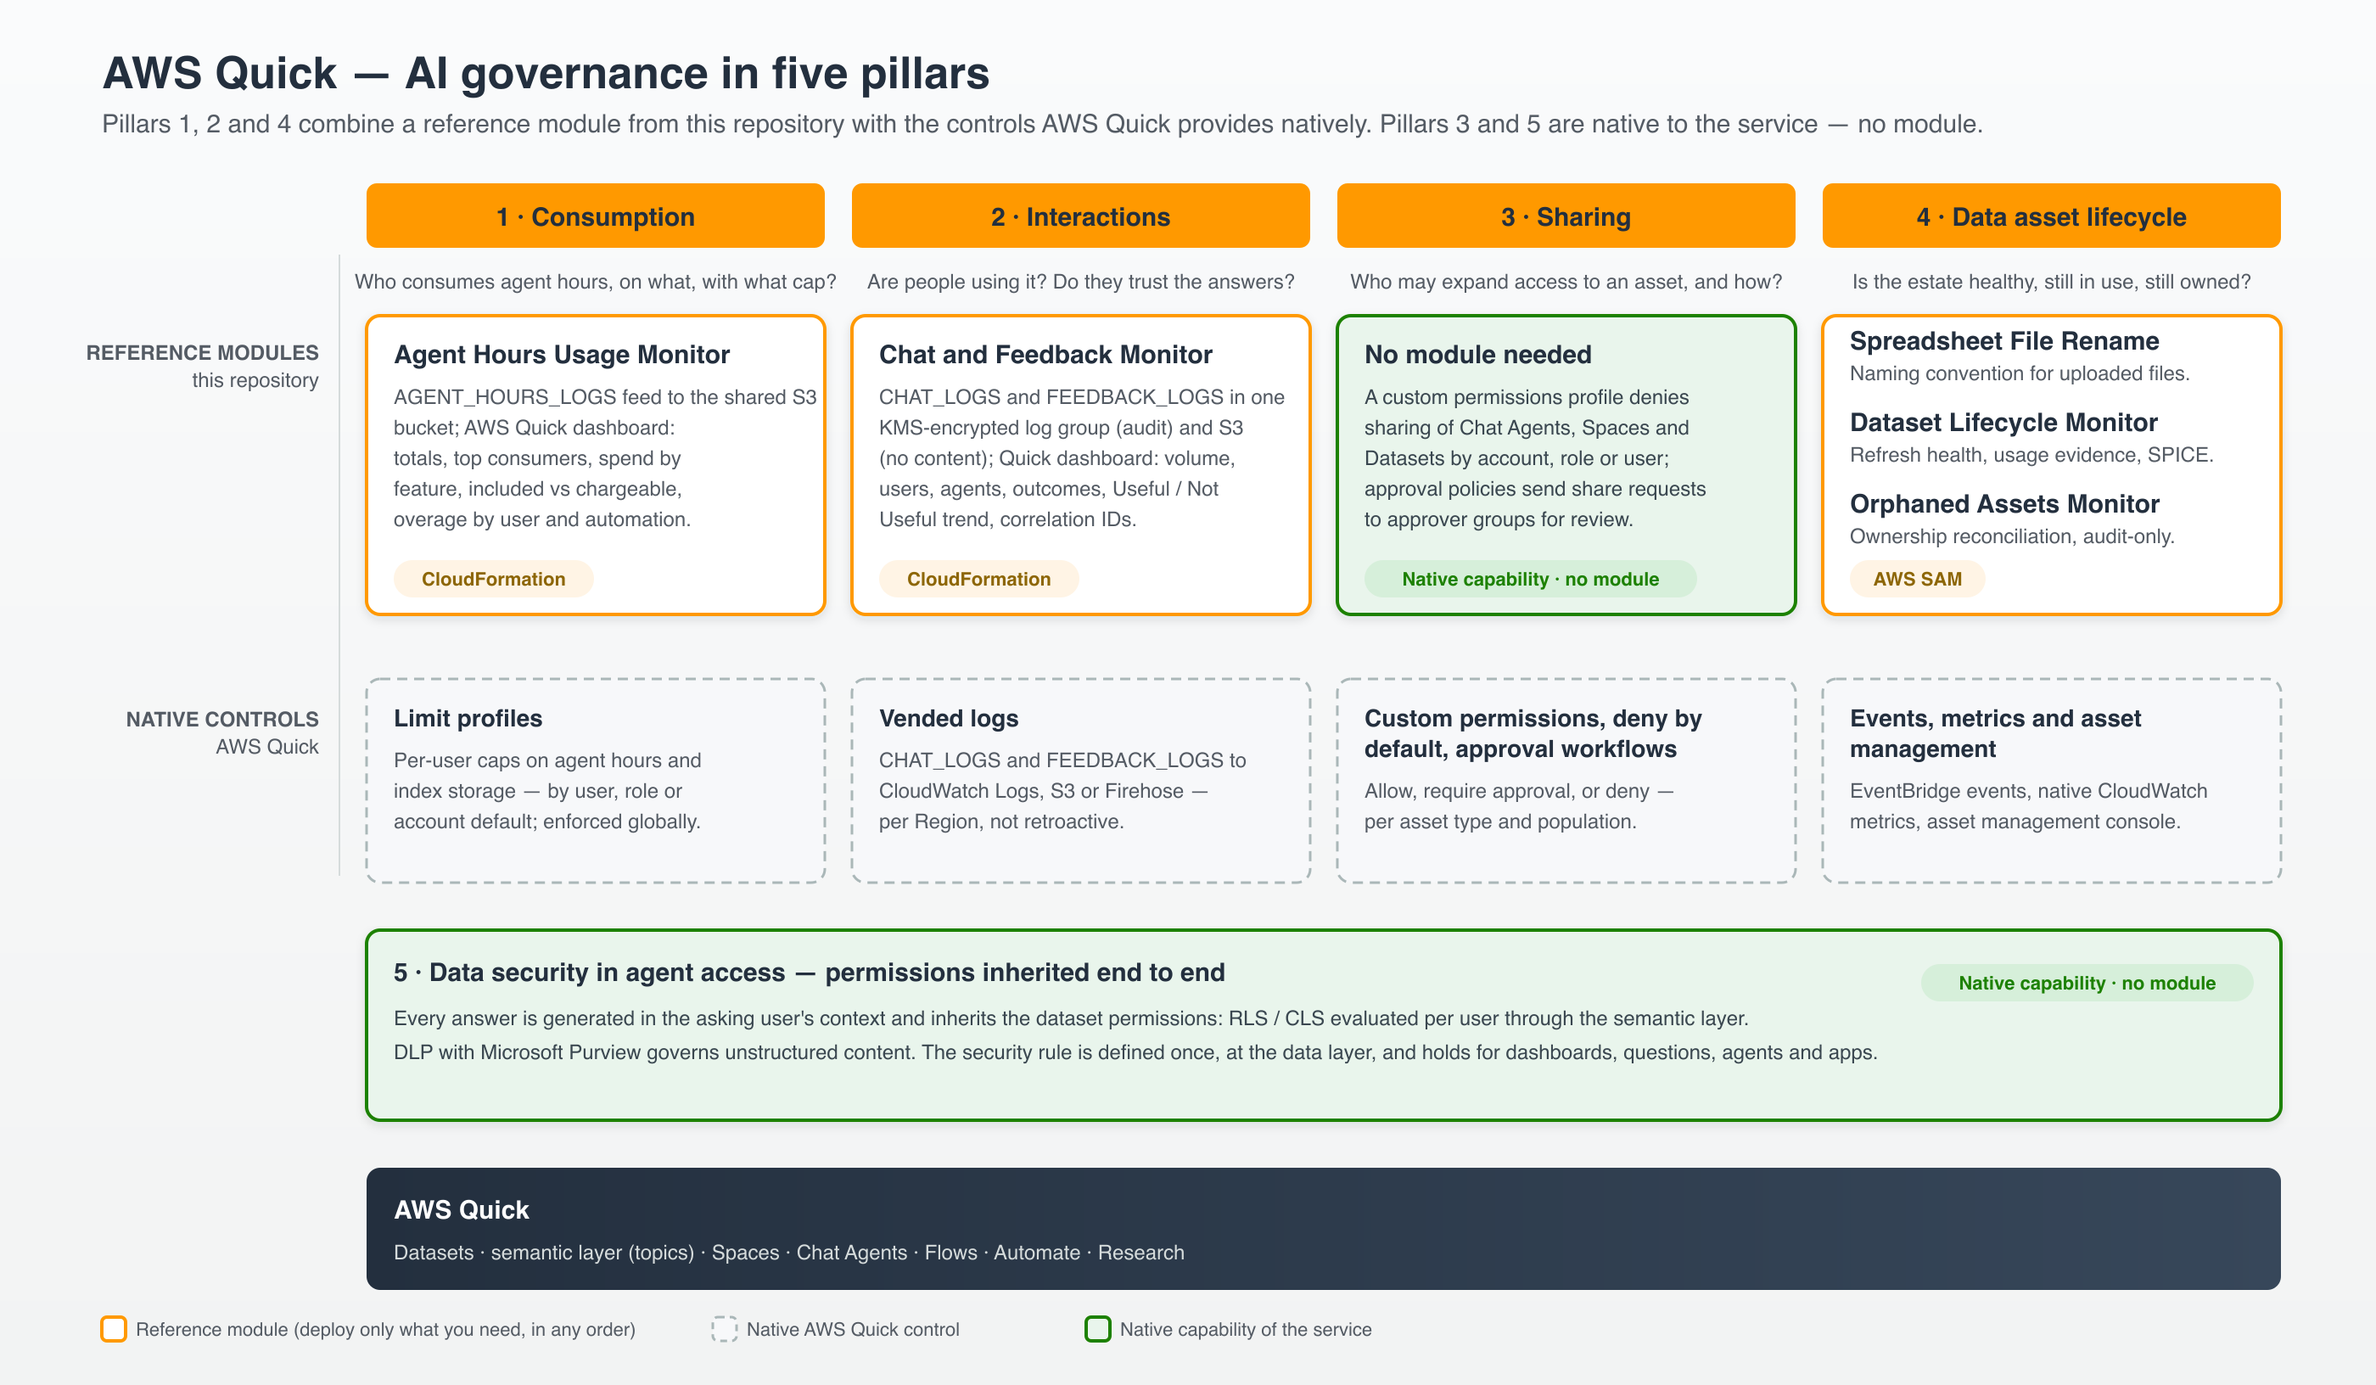
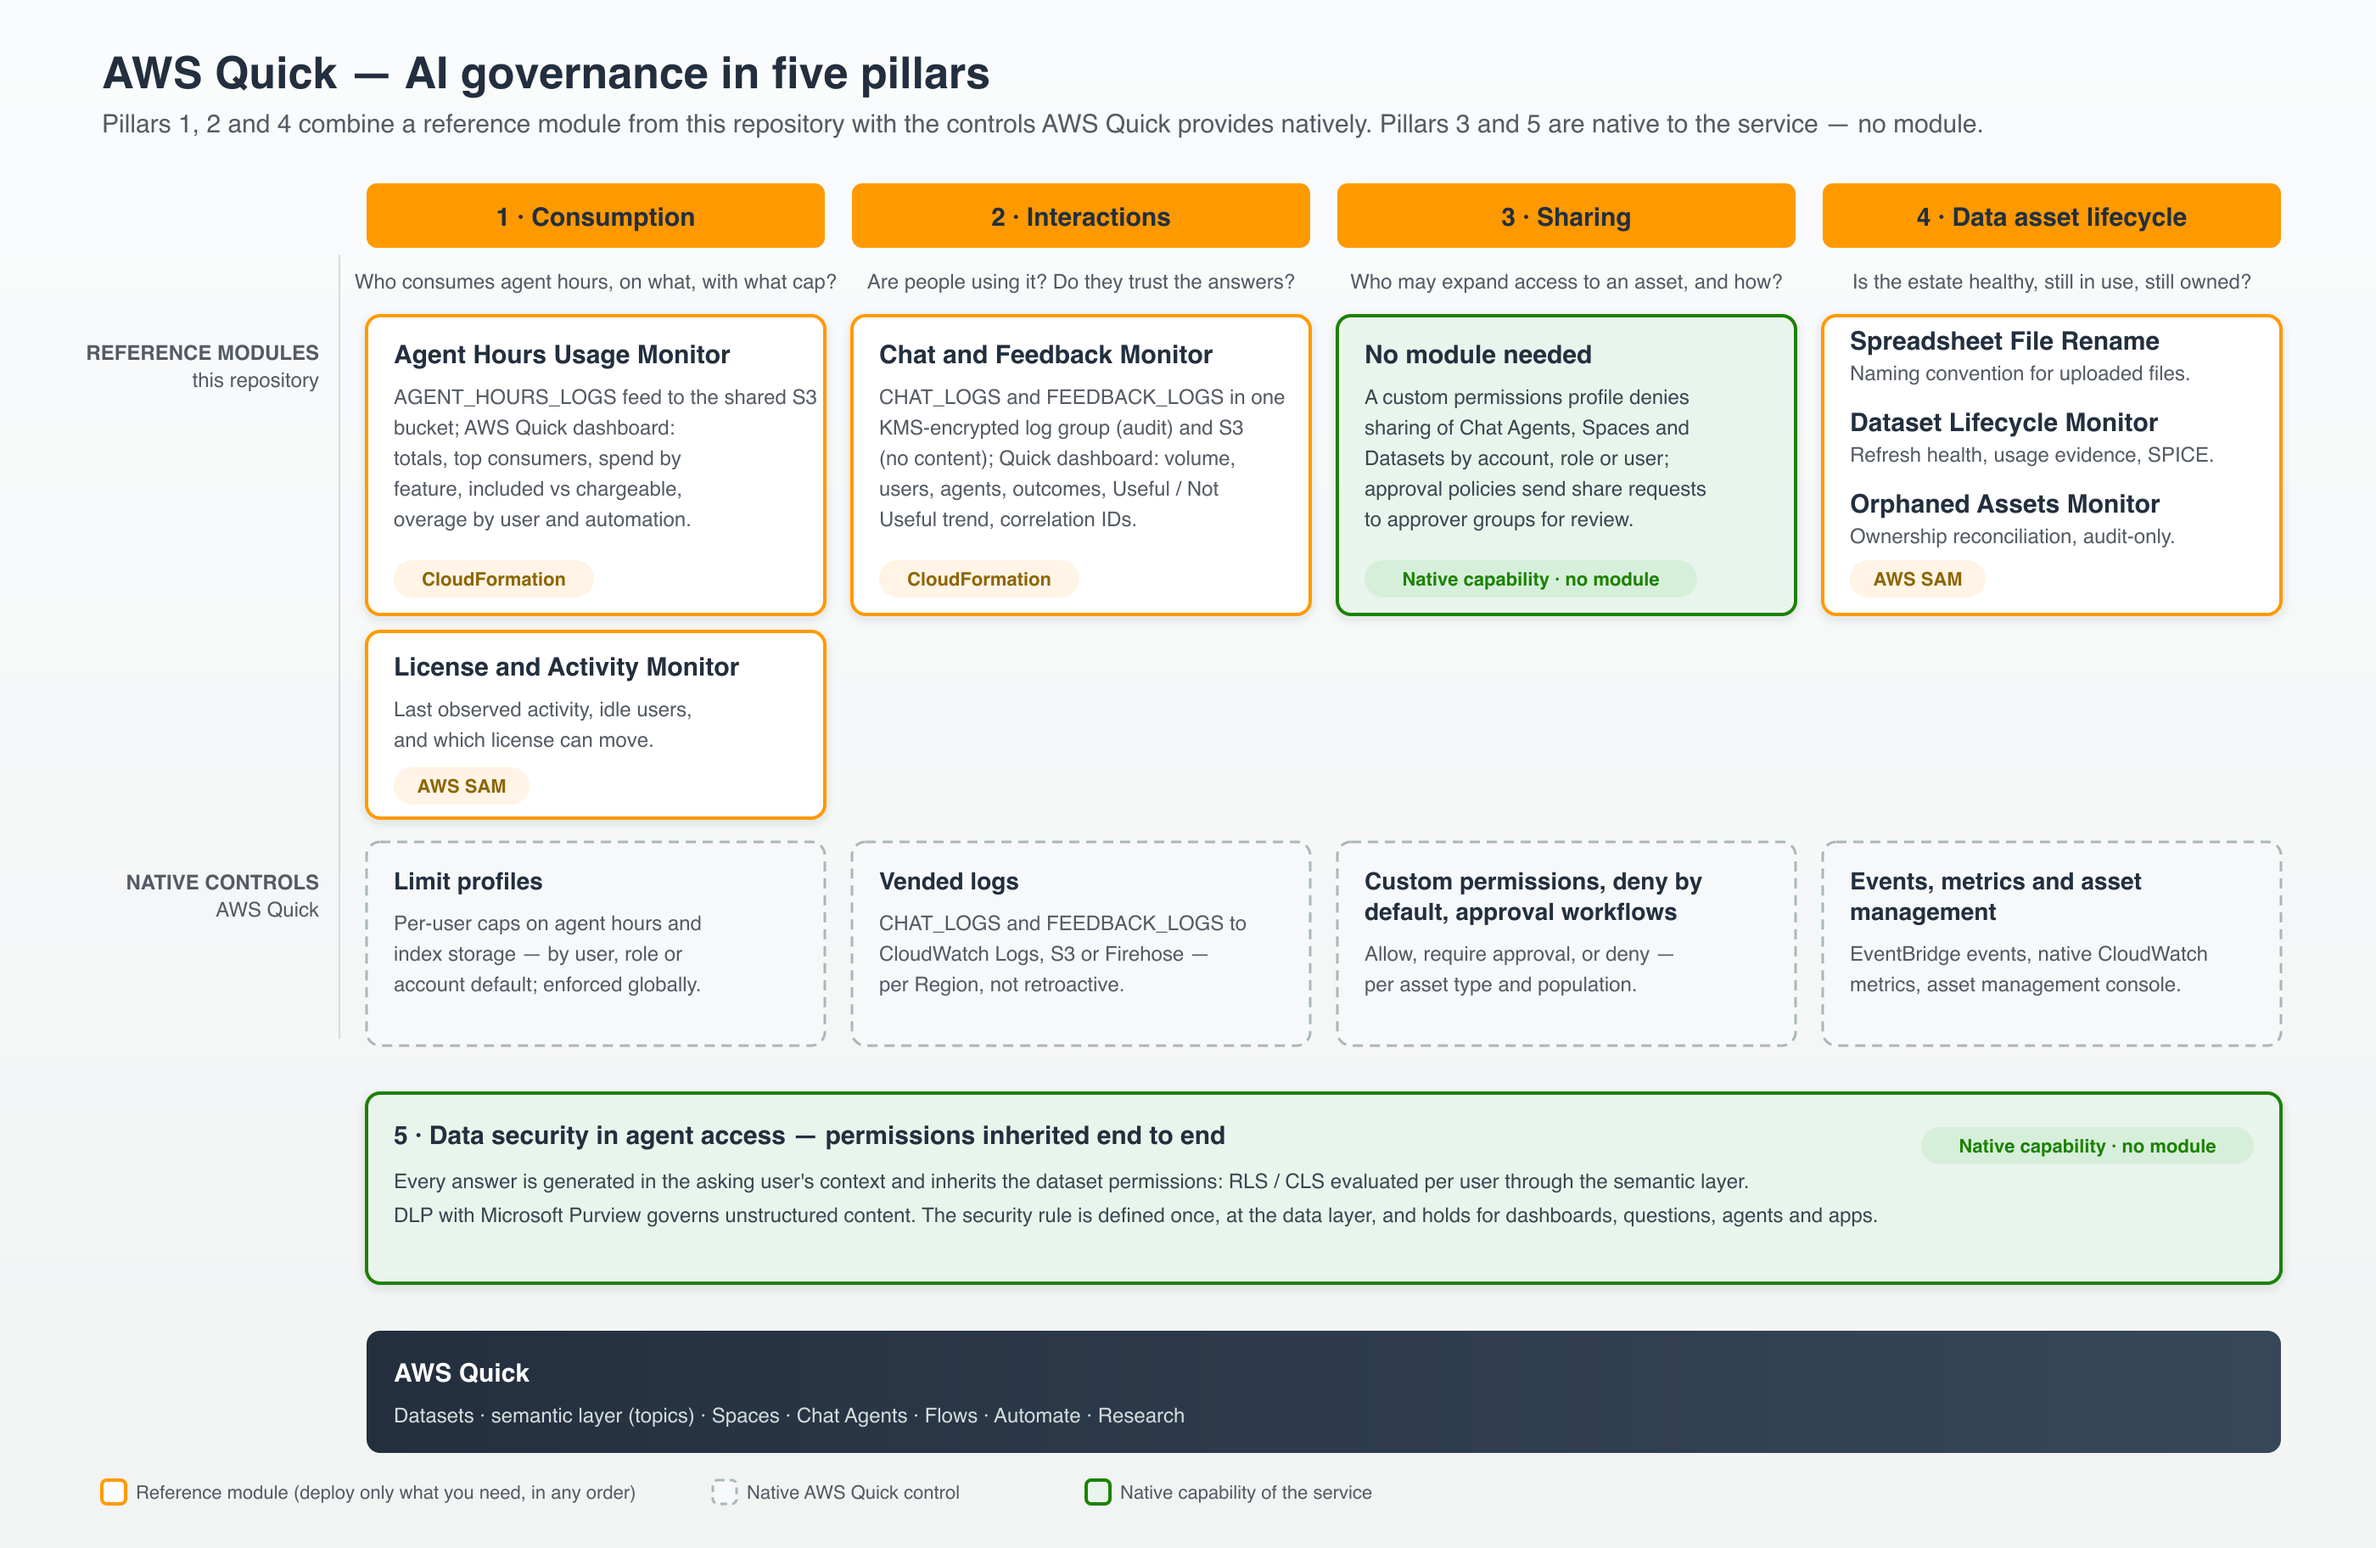
docs: list the license monitor in the catalog
Pillar 1 now points at the license monitor as well as Agent Hours. The five-pillars diagram matches.

Changed region(s): [[0.0311, 0.0312, 0.9632, 0.9688]]

diff --git a/README.md b/README.md
@@ -22,7 +22,7 @@ This repository organizes that agenda into five pillars. Pillars 1, 2 and 4 comb
 
 | Pillar | Question it answers | Native AWS Quick capability | Reference module in this repository |
 |---|---|---|---|
-| 1 · Consumption | Who consumes agent hours, on which feature, and with what cap? | [Limit profiles](https://docs.aws.amazon.com/quick/latest/userguide/limit-profiles.html) (per-user caps on agent hours and index storage) | [Agent Hours Usage Monitor](./governance-agent-hours-monitor/README.md) |
+| 1 · Consumption | Who consumes agent hours, on which feature, and with what cap, and does each license match its use? | [Limit profiles](https://docs.aws.amazon.com/quick/latest/userguide/limit-profiles.html) (per-user caps on agent hours and index storage) | [Agent Hours Usage Monitor](./governance-agent-hours-monitor/README.md), [License and Activity Monitor](./governance-license-activity-monitor/README.md) |
 | 2 · Interactions | Are people using it? Do they trust the answers? What is failing? | [`CHAT_LOGS` and `FEEDBACK_LOGS` vended logs](https://docs.aws.amazon.com/quick/latest/userguide/monitoring-cloudwatch-logs.html) | [Chat and Feedback Monitor](./governance-chat-feedback-monitor/README.md) |
 | 3 · Sharing | Who may expand access to an asset, and how? | [Custom permissions](https://docs.aws.amazon.com/quick/latest/userguide/custom-permissions.html) (sharing restrictions per asset type, [deny by default](https://docs.aws.amazon.com/quick/latest/userguide/custom-permissions-governance.html)) and [approval workflows](https://docs.aws.amazon.com/quick/latest/userguide/approval-workflows.html) | — (native capability) |
 | 4 · Data asset lifecycle | Is the asset estate healthy, still in use, and still owned? | [EventBridge events](https://docs.aws.amazon.com/quick/latest/userguide/events-integration.html), native CloudWatch metrics, and the [asset management console](https://docs.aws.amazon.com/quick/latest/userguide/manage-qs-assets.html) | [Spreadsheet File Rename](./governance-spreadsheet-file-rename/README.md) · [Dataset Lifecycle Monitor](./governance-dataset-lifecycle-monitor/README.md) · [Orphaned Assets Monitor](./governance-orphaned-assets-monitor/README.md) |
@@ -37,21 +37,22 @@ This repository organizes that agenda into five pillars. Pillars 1, 2 and 4 comb
 | Module | Pillar | What it does | Deploy with | Needs the foundation |
 |---|---|---|---|---|
 | [Agent Hours Usage Monitor](./governance-agent-hours-monitor/README.md) | 1 | Delivers the `AGENT_HOURS_LOGS` feed to the shared analytics bucket and ships an AWS Quick dashboard: total hours, top consumers, spend by feature, license-covered vs. chargeable, and overage by feature, user, and automation. | CloudFormation | yes |
+| [License and Activity Monitor](./governance-license-activity-monitor/README.md) | 1 | Each user's last observed activity, oldest first, and whether the user can be reviewed for removal. The license table shows who can move to another tier, the list-price saving, and the month it starts. | AWS SAM | yes |
 | [Chat and Feedback Monitor](./governance-chat-feedback-monitor/README.md) | 2 | Delivers `CHAT_LOGS` and `FEEDBACK_LOGS` to one KMS-encrypted log group (the content audit trail) and a field-minimized copy to the shared analytics bucket, and ships an AWS Quick dashboard: message and conversation volume, active users in the period and the most active ones, most-used agents (friendly names refreshed on every agent rename), response outcomes, Useful / Not Useful trend with reasons, and an audit trail with correlation IDs. | CloudFormation | yes |
 | [Spreadsheet File Rename](./governance-spreadsheet-file-rename/README.md) | 4 | Renames any dataset created from an uploaded spreadsheet with a standard prefix (`xls-` by default) within seconds, via an EventBridge → Lambda automation, with no change to the upload experience. | AWS SAM | no |
 | [Dataset Lifecycle Monitor](./governance-dataset-lifecycle-monitor/README.md) | 4 | Fleet-wide dataset and dashboard lifecycle without co-owning assets: last sync status, refresh schedules and the next run, last observed use and idle state with the evidence behind it, and which dashboards qualify for review. Snapshots in the shared analytics bucket and an AWS Quick dashboard. | AWS SAM | yes |
 | [Orphaned Assets Monitor](./governance-orphaned-assets-monitor/README.md) | 4 | Daily read-only reconciliation of every asset's owner grants (datasets, dashboards, analyses, data sources, folders, spaces, agents, topics) against the Quick user/group inventory: flags orphaned and missing-owner assets (HIGH), single-owner assets (bus factor 1), and recoveries, with SNS alerts. Audit-only — ownership transfer stays a human decision. Snapshots in the shared analytics bucket and an AWS Quick dashboard. | AWS SAM | yes |
 | [Analytics Foundation](./governance-analytics-foundation/README.md) | shared | Once-per-Region prerequisites for the AWS Quick dashboards: the shared analytics bucket every module writes into (one prefix per module), a Glue database, an Athena workgroup, the Quick data source, and the IAM grant that lets Quick read the data — no console step. | CloudFormation | is the foundation |
 
-The four monitoring modules visualize in AWS Quick: each ships a Quick dashboard that its `apply` script deploys together with the module, over data in one shared analytics bucket. Alerting, in the modules that raise it, stays operational — CloudWatch alarms and SNS — and the conversation audit trail stays in CloudWatch Logs. See [Deployment options](#deployment-options).
+The five monitoring modules visualize in AWS Quick: each ships a Quick dashboard that its `apply` script deploys together with the module, over data in one shared analytics bucket. Alerting, in the modules that raise it, stays operational — CloudWatch alarms and SNS — and the conversation audit trail stays in CloudWatch Logs. See [Deployment options](#deployment-options).
 
 ## Pillar 1 — Visibility and control of consumption
 
-AI features in AWS Quick — Quick Research, Flows, Automate, the desktop assistant, custom apps, and artifact generation — consume **agent hours**, the metered unit of the subscription. With the desktop and mobile apps generally available and agents that keep running in the cloud after the laptop is closed, part of that consumption happens with nobody watching: a scheduled task debits hours on every run. The pricing model has three components every adoption budget must cover: the per-user subscription, the per-account infrastructure fee of the enterprise subscriptions, and variable consumption beyond the monthly allowance included per user. The two enterprise subscriptions differ by design here: in **Professional** the agent-hour allowance is a hard cap — there is no overage; in **Enterprise** usage beyond the allowance is billed per second at a single rate. Index storage beyond the pooled allocation is billed per GB. See [AWS Quick pricing](https://aws.amazon.com/quick/pricing/) for current values and conditions. Anyone accountable for the budget needs three answers: who is consuming, on which feature, and how much of it is chargeable overage?
+AI features in AWS Quick — Quick Research, Flows, Automate, the desktop assistant, custom apps, and artifact generation — consume **agent hours**, the metered unit of the subscription. With the desktop and mobile apps generally available and agents that keep running in the cloud after the laptop is closed, part of that consumption happens with nobody watching: a scheduled task debits hours on every run. The pricing model has three components every adoption budget must cover: the per-user subscription, the per-account infrastructure fee of the enterprise subscriptions, and variable consumption beyond the monthly allowance included per user. The two enterprise subscriptions differ by design here: in **Professional** the agent-hour allowance is a hard cap — there is no overage; in **Enterprise** usage beyond the allowance is billed per second at a single rate. Index storage beyond the pooled allocation is billed per GB. See [AWS Quick pricing](https://aws.amazon.com/quick/pricing/) for current values and conditions. Anyone accountable for the budget needs three answers: who is consuming, on which feature, and how much of it is chargeable overage, and does each license match its use?
 
 **Native control.** The built-in usage analytics aggregate consumption by subscription tier, which is enough to track the whole but not to hold teams and users accountable. For enforcement, [limit profiles](https://docs.aws.amazon.com/quick/latest/userguide/limit-profiles.html) let an administrator define reusable per-user caps on agent hours per billing cycle and on index storage, assigned to individual users, to a role (Author or Reader), or as the account default — the most specific assignment wins. When a user reaches 100% of a cap, new agent invocations (or new uploads and knowledge base ingestions, for storage) are blocked until the next billing cycle. Existing content is always preserved, enforcement is global across Regions, and each user can follow their own consumption in the *My usage* widget.
 
-**Reference module.** The [Agent Hours Usage Monitor](./governance-agent-hours-monitor/README.md) provisions delivery of the `AGENT_HOURS_LOGS` vended-log feed — the granular source the console does not expose — to the shared analytics bucket and ships an AWS Quick dashboard — Direct Query over Athena, no SPICE and no refresh schedule — with total hours for the period, top consumers, consumption trend by feature, included vs. extra hours, and the overage broken down by user and by automation. Every chargeable hour has an owner: interactive events are attributed to `user_arn`, and scheduled or deployed automations to the resource that ran them. The same S3 data serves downstream analysis in Athena or Grafana, including joins with groups and cost centers for internal chargeback.
+**Reference modules.** The [Agent Hours Usage Monitor](./governance-agent-hours-monitor/README.md) provisions delivery of the `AGENT_HOURS_LOGS` vended-log feed — the granular source the console does not expose — to the shared analytics bucket and ships an AWS Quick dashboard — Direct Query over Athena, no SPICE and no refresh schedule — with total hours for the period, top consumers, consumption trend by feature, included vs. extra hours, and the overage broken down by user and by automation. Every chargeable hour has an owner: interactive events are attributed to `user_arn`, and scheduled or deployed automations to the resource that ran them. The same S3 data serves downstream analysis in Athena or Grafana, including joins with groups and cost centers for internal chargeback. The [License and Activity Monitor](./governance-license-activity-monitor/README.md) reads that feed, CloudTrail, and the ownership snapshot, and shows last observed activity plus the list-price saving of a tier change. Last observed activity is not the console's Last active.
 
 **Outcome.** Predictability in two layers: the native cap prevents a single user from exhausting the shared index capacity or generating unexpected agent-hour overage, and the monitor answers what the cap cannot — who consumes, on what, and with what trend. The module publishes no alarm of its own: for an alert when the month's aggregate consumption approaches what was contracted, set a Quick threshold alert on the dashboard's monthly KPI or run an Athena check over the delivered data (see the module README).
 
@@ -160,6 +161,7 @@ Two questions decide everything:
 # the whole estate in one Region
 governance-analytics-foundation/scripts/apply-governance-analytics-foundation.sh --region <r> --quick-principal-arn <arn>
 governance-agent-hours-monitor/scripts/apply-governance-agent-hours-monitor.sh     --region <r>
+governance-license-activity-monitor/scripts/apply-governance-license-activity-monitor.sh --region <r>
 governance-chat-feedback-monitor/scripts/apply-governance-chat-feedback-monitor.sh --region <r>
 governance-orphaned-assets-monitor/scripts/apply-governance-orphaned-assets-monitor.sh   --region <r>
 governance-dataset-lifecycle-monitor/scripts/apply-governance-dataset-lifecycle-monitor.sh --region <r>
@@ -208,6 +210,7 @@ Operating cost is on the order of a few US dollars per month for the whole estat
 .
 ├── docs/images/                            diagrams used by the READMEs
 ├── governance-agent-hours-monitor/         Pillar 1 · CloudFormation
+├── governance-license-activity-monitor/    Pillar 1 · AWS SAM
 ├── governance-chat-feedback-monitor/       Pillar 2 · CloudFormation
 ├── governance-spreadsheet-file-rename/     Pillar 4 · AWS SAM (Python Lambda)
 ├── governance-dataset-lifecycle-monitor/   Pillar 4 · AWS SAM (Python Lambda)
